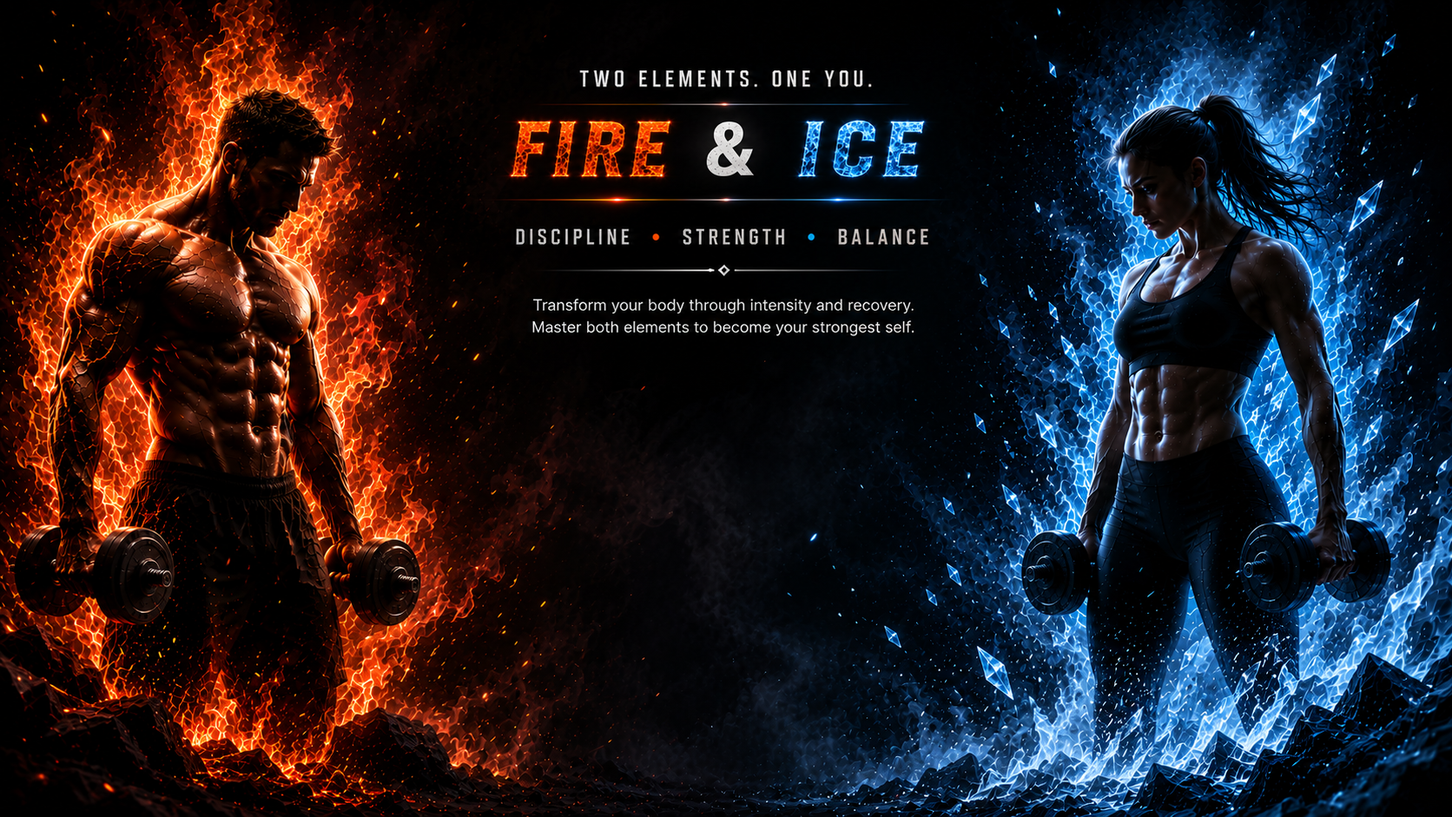
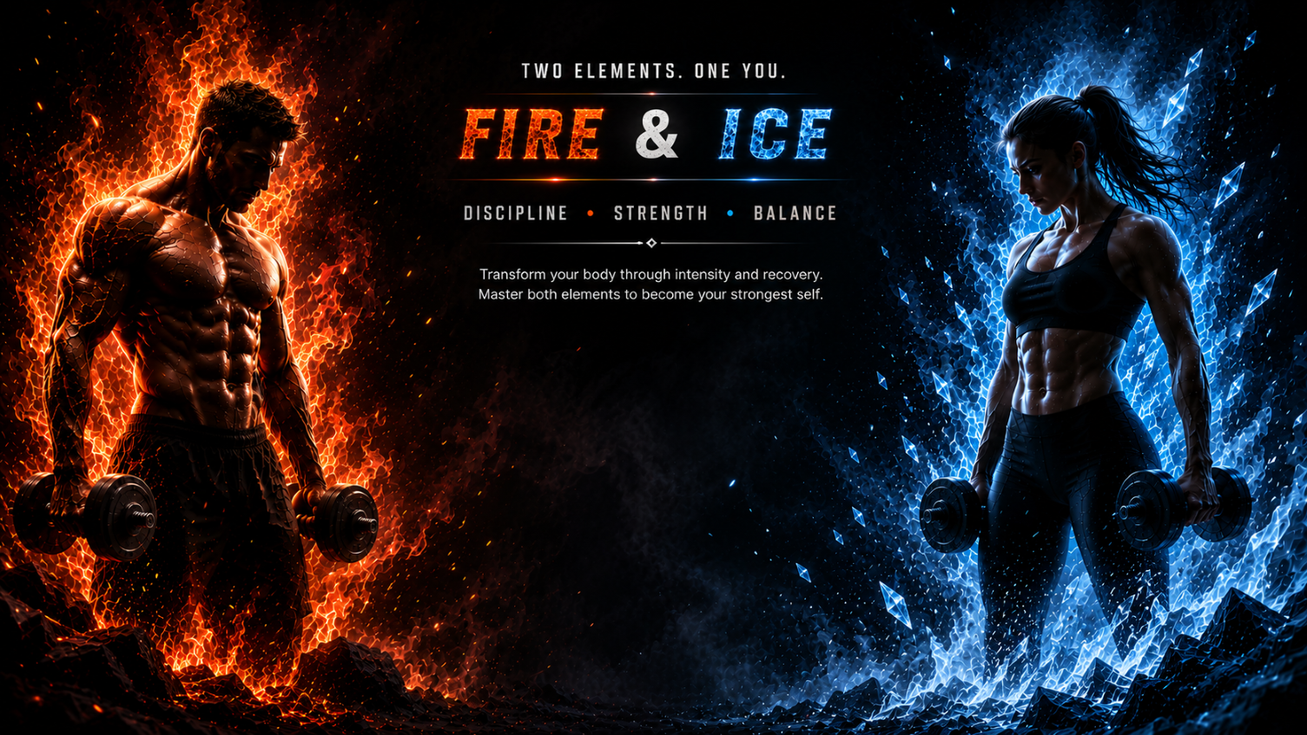
re-design layout

Changed region(s): [[0.3748, 0.3684, 0.5309, 0.3991], [0.5621, 0.3684, 0.5934, 0.3991], [0.0312, 0.4298, 0.0625, 0.4604]]

diff --git a/index.html b/index.html
@@ -28,20 +28,49 @@
                         <li><a href="contact.html">Contact</a></li>
                     </ul>
                 </div>
+                <div class="dark-mode">
+                    <button class="toggle">
+                        <svg xmlns="http://www.w3.org/2000/svg" xmlns:xlink="http://www.w3.org/1999/xlink"
+                            aria-hidden="true" role="img" width="44" viewBox="0 0 80 80"
+                            style="color: rgb(74, 85, 101); opacity: 1; transform: rotate(0deg);">
+                            <g fill="none">
+                                <path fill="#f2c94c" fill-rule="evenodd"
+                                    d="M23.001 24.273a14.78 14.78 0 0 1 10.928-2.928c1.257.165 1.234 1.933.161 2.608q-.453.285-.88.614a11.615 11.615 0 0 0 1.846 19.588a8.2 8.2 0 0 0-3.127 5.276a9.4 9.4 0 0 0-3.032 1.022A14.782 14.782 0 0 1 23 24.273"
+                                    clip-rule="evenodd"></path>
+                                <path fill="#f2c94c"
+                                    d="m33.93 21.345l.26-1.983zM23 24.273l-1.217-1.587zm11.09-.32l-1.066-1.692zm-.882.614l1.218 1.587zm-4.445 7.699l1.983.26zm2.301 8.586l1.587-1.217zm3.99 3.303l1.215 1.59a2 2 0 0 0-.315-3.376zm-2.95 4.426l-1.933-.51zm-.176.85l.305 1.976a2 2 0 0 0 1.672-1.672zm-3.032 1.022l-.42 1.955a2 2 0 0 0 1.372-.197zm-8.624-5.454l-1.587 1.217zM17.344 34.07l-1.983-.261zM34.19 19.36a16.78 16.78 0 0 0-12.406 3.325l2.435 3.173a12.78 12.78 0 0 1 9.45-2.532zm.966 6.285a3.74 3.74 0 0 0 1.726-3.251a3.23 3.23 0 0 0-.678-1.908a3.04 3.04 0 0 0-2.014-1.125l-.522 3.965a.96.96 0 0 1-.601-.36a.8.8 0 0 1-.183-.446a.27.27 0 0 1 .14-.26zm-.73.508a10 10 0 0 1 .73-.508l-2.131-3.385q-.532.334-1.033.72zm-3.679 6.373a9.62 9.62 0 0 1 3.68-6.373l-2.435-3.174a13.62 13.62 0 0 0-5.21 9.025zm1.905 7.108a9.62 9.62 0 0 1-1.905-7.108l-3.965-.522c-.472 3.58.498 7.2 2.697 10.065zm3.303 2.734a9.6 9.6 0 0 1-3.303-2.734l-3.174 2.435a13.6 13.6 0 0 0 4.678 3.871zM34.04 49.09a6.2 6.2 0 0 1 2.23-3.347l-2.428-3.178a10.2 10.2 0 0 0-3.67 5.505zm-.134.644q.05-.324.134-.644l-3.868-1.02q-.138.525-.22 1.056zM29.85 52.21a7.4 7.4 0 0 1 2.384-.804l-.61-3.953c-1.293.2-2.538.621-3.68 1.24zm-11.164-5.995a16.78 16.78 0 0 0 9.79 6.192l.84-3.91a12.78 12.78 0 0 1-7.457-4.717zM15.36 33.81a16.78 16.78 0 0 0 3.325 12.406l3.173-2.435a12.78 12.78 0 0 1-2.532-9.45zm6.423-11.124A16.78 16.78 0 0 0 15.36 33.81l3.966.522a12.78 12.78 0 0 1 4.892-8.473z">
+                                </path>
+                                <path fill="#9b51e0" fill-rule="evenodd"
+                                    d="M60.75 37.934a11.96 11.96 0 0 1 5.584 7.255a11.9 11.9 0 0 1 .254 5.004A9.34 9.34 0 0 1 72 58.66c0 2.477-.99 4.856-2.743 6.605a9.37 9.37 0 0 1-6.61 2.734H60.61l-.023.001H33.354a9.37 9.37 0 0 1-6.609-2.735A9.34 9.34 0 0 1 24 58.661c0-2.477.99-4.856 2.744-6.605a9.37 9.37 0 0 1 5.185-2.625q.066-.429.177-.85a8.2 8.2 0 0 1 3.826-5.01a8.24 8.24 0 0 1 7.831-.197l.613-1.058a12 12 0 0 1 7.286-5.577c3.067-.82 6.34-.387 9.089 1.195"
+                                    clip-rule="evenodd"></path>
+                                <path fill="#9b51e0"
+                                    d="m66.334 45.189l1.931-.52zm-5.583-7.255l.998-1.733zm5.837 12.259l-1.974-.32a2 2 0 0 0 1.131 2.133zm2.669 1.862l-1.413 1.416zm0 13.21l-1.413-1.417zm-6.61 2.734v2zm-2.038 0v-2q-.077 0-.154.006zM35.407 68l.057-2h-.057zm-2.054 0v2zm-6.609-2.735l1.413-1.416zm0-13.21l-1.412-1.415zm5.185-2.624l.305 1.976a2 2 0 0 0 1.672-1.672zm.177-.85l1.933.51zm3.826-5.01l-.998-1.733zm6.264-.8l.526-1.93zm1.568.603l-.902 1.785a2 2 0 0 0 2.632-.783zm.612-1.058l-1.73-1.002zm7.286-5.577l-.517-1.932zm16.604 7.93a13.96 13.96 0 0 0-6.517-8.468l-1.996 3.467a9.96 9.96 0 0 1 4.65 6.04zm.296 5.844a13.9 13.9 0 0 0-.296-5.843l-3.864 1.038a9.9 9.9 0 0 1 .212 4.164zm2.107.126a11.4 11.4 0 0 0-3.238-2.26l-1.686 3.627c.773.36 1.485.853 2.1 1.465zM74 58.659c0-3.009-1.203-5.897-3.332-8.02l-2.825 2.832A7.34 7.34 0 0 1 70 58.66zm-3.332 8.022A11.34 11.34 0 0 0 74 58.66h-4a7.34 7.34 0 0 1-2.157 5.188zm-8.021 3.318c3.007 0 5.894-1.197 8.02-3.318l-2.824-2.833A7.37 7.37 0 0 1 62.648 66zm-2.039 0h2.039v-4h-2.039zm-.154-3.994q.065-.005.132-.005v4q.089 0 .177-.007zm.132-.005h-25.17v4h25.17zm-25.171 0h.048l-.113 4h.065zm-2.063 4h2.054v-4h-2.054zm-8.02-3.318A11.37 11.37 0 0 0 33.352 70v-4a7.37 7.37 0 0 1-5.196-2.15zM22 58.66a11.33 11.33 0 0 0 3.331 8.02l2.825-2.832A7.34 7.34 0 0 1 26 58.661zm3.331-8.021A11.34 11.34 0 0 0 22 58.66h4c0-1.943.778-3.813 2.157-5.188zm6.291-3.186a11.38 11.38 0 0 0-6.29 3.186l2.824 2.832a7.37 7.37 0 0 1 4.077-2.065zm-1.451.617q-.139.525-.22 1.056l3.954.608q.05-.324.133-.644zm4.762-6.233a10.2 10.2 0 0 0-4.762 6.233l3.867 1.02a6.2 6.2 0 0 1 2.891-3.786zm7.788-.996a10.24 10.24 0 0 0-7.788.996l1.996 3.467a6.24 6.24 0 0 1 4.741-.604zm1.943.746a10.3 10.3 0 0 0-1.943-.746l-1.051 3.86q.621.17 1.19.457zm-2.02-.274l-.612 1.057l3.461 2.005l.613-1.058zm8.5-6.507a14 14 0 0 0-8.5 6.507l3.462 2.004a10 10 0 0 1 6.071-4.646zM61.748 36.2a14.02 14.02 0 0 0-10.604-1.394l1.033 3.864a10.02 10.02 0 0 1 7.575.997z">
+                                </path>
+                            </g>
+                        </svg>
+                    </button>
+                </div>
+                <div id="join-div">
+                    <a href="#" id="join-btn" class="btn btn-1">JOIN NOW</a>
+                </div>
             </div>
         </nav>
     </header>
 
     <section>
         <div id="banner-section">
-            
+
+            <div id="header-btn">
+                <div>
+                    <button class="btn btn-1" >START YOUR JOURNEY </button>
+                </div>
+                <div>
+                    <button class="btn" id="btn-2">EXPLORE MORE</button>
+                </div>
+            </div>
         </div>
-        <div id="main-div">
-            <div class="sub-div" id="div-1"></div>
-            <div class="sub-div" id="div-2"></div>
-            <div class="sub-div" id="div-3"></div>
-        </div>
+
     </section>
 </body>
 
-</html>
+</html>87 5

diff --git a/contact.html b/contact.html
@@ -28,6 +28,31 @@
                         <li class="active"><a href="contact.html">Contact</a></li>
                     </ul>
                 </div>
+                <div class="dark-mode">
+                    <button class="toggle">
+                        <svg xmlns="http://www.w3.org/2000/svg" xmlns:xlink="http://www.w3.org/1999/xlink"
+                            aria-hidden="true" role="img" width="44" viewBox="0 0 80 80"
+                            style="color: rgb(74, 85, 101); opacity: 1; transform: rotate(0deg);">
+                            <g fill="none">
+                                <path fill="#f2c94c" fill-rule="evenodd"
+                                    d="M23.001 24.273a14.78 14.78 0 0 1 10.928-2.928c1.257.165 1.234 1.933.161 2.608q-.453.285-.88.614a11.615 11.615 0 0 0 1.846 19.588a8.2 8.2 0 0 0-3.127 5.276a9.4 9.4 0 0 0-3.032 1.022A14.782 14.782 0 0 1 23 24.273"
+                                    clip-rule="evenodd"></path>
+                                <path fill="#f2c94c"
+                                    d="m33.93 21.345l.26-1.983zM23 24.273l-1.217-1.587zm11.09-.32l-1.066-1.692zm-.882.614l1.218 1.587zm-4.445 7.699l1.983.26zm2.301 8.586l1.587-1.217zm3.99 3.303l1.215 1.59a2 2 0 0 0-.315-3.376zm-2.95 4.426l-1.933-.51zm-.176.85l.305 1.976a2 2 0 0 0 1.672-1.672zm-3.032 1.022l-.42 1.955a2 2 0 0 0 1.372-.197zm-8.624-5.454l-1.587 1.217zM17.344 34.07l-1.983-.261zM34.19 19.36a16.78 16.78 0 0 0-12.406 3.325l2.435 3.173a12.78 12.78 0 0 1 9.45-2.532zm.966 6.285a3.74 3.74 0 0 0 1.726-3.251a3.23 3.23 0 0 0-.678-1.908a3.04 3.04 0 0 0-2.014-1.125l-.522 3.965a.96.96 0 0 1-.601-.36a.8.8 0 0 1-.183-.446a.27.27 0 0 1 .14-.26zm-.73.508a10 10 0 0 1 .73-.508l-2.131-3.385q-.532.334-1.033.72zm-3.679 6.373a9.62 9.62 0 0 1 3.68-6.373l-2.435-3.174a13.62 13.62 0 0 0-5.21 9.025zm1.905 7.108a9.62 9.62 0 0 1-1.905-7.108l-3.965-.522c-.472 3.58.498 7.2 2.697 10.065zm3.303 2.734a9.6 9.6 0 0 1-3.303-2.734l-3.174 2.435a13.6 13.6 0 0 0 4.678 3.871zM34.04 49.09a6.2 6.2 0 0 1 2.23-3.347l-2.428-3.178a10.2 10.2 0 0 0-3.67 5.505zm-.134.644q.05-.324.134-.644l-3.868-1.02q-.138.525-.22 1.056zM29.85 52.21a7.4 7.4 0 0 1 2.384-.804l-.61-3.953c-1.293.2-2.538.621-3.68 1.24zm-11.164-5.995a16.78 16.78 0 0 0 9.79 6.192l.84-3.91a12.78 12.78 0 0 1-7.457-4.717zM15.36 33.81a16.78 16.78 0 0 0 3.325 12.406l3.173-2.435a12.78 12.78 0 0 1-2.532-9.45zm6.423-11.124A16.78 16.78 0 0 0 15.36 33.81l3.966.522a12.78 12.78 0 0 1 4.892-8.473z">
+                                </path>
+                                <path fill="#9b51e0" fill-rule="evenodd"
+                                    d="M60.75 37.934a11.96 11.96 0 0 1 5.584 7.255a11.9 11.9 0 0 1 .254 5.004A9.34 9.34 0 0 1 72 58.66c0 2.477-.99 4.856-2.743 6.605a9.37 9.37 0 0 1-6.61 2.734H60.61l-.023.001H33.354a9.37 9.37 0 0 1-6.609-2.735A9.34 9.34 0 0 1 24 58.661c0-2.477.99-4.856 2.744-6.605a9.37 9.37 0 0 1 5.185-2.625q.066-.429.177-.85a8.2 8.2 0 0 1 3.826-5.01a8.24 8.24 0 0 1 7.831-.197l.613-1.058a12 12 0 0 1 7.286-5.577c3.067-.82 6.34-.387 9.089 1.195"
+                                    clip-rule="evenodd"></path>
+                                <path fill="#9b51e0"
+                                    d="m66.334 45.189l1.931-.52zm-5.583-7.255l.998-1.733zm5.837 12.259l-1.974-.32a2 2 0 0 0 1.131 2.133zm2.669 1.862l-1.413 1.416zm0 13.21l-1.413-1.417zm-6.61 2.734v2zm-2.038 0v-2q-.077 0-.154.006zM35.407 68l.057-2h-.057zm-2.054 0v2zm-6.609-2.735l1.413-1.416zm0-13.21l-1.412-1.415zm5.185-2.624l.305 1.976a2 2 0 0 0 1.672-1.672zm.177-.85l1.933.51zm3.826-5.01l-.998-1.733zm6.264-.8l.526-1.93zm1.568.603l-.902 1.785a2 2 0 0 0 2.632-.783zm.612-1.058l-1.73-1.002zm7.286-5.577l-.517-1.932zm16.604 7.93a13.96 13.96 0 0 0-6.517-8.468l-1.996 3.467a9.96 9.96 0 0 1 4.65 6.04zm.296 5.844a13.9 13.9 0 0 0-.296-5.843l-3.864 1.038a9.9 9.9 0 0 1 .212 4.164zm2.107.126a11.4 11.4 0 0 0-3.238-2.26l-1.686 3.627c.773.36 1.485.853 2.1 1.465zM74 58.659c0-3.009-1.203-5.897-3.332-8.02l-2.825 2.832A7.34 7.34 0 0 1 70 58.66zm-3.332 8.022A11.34 11.34 0 0 0 74 58.66h-4a7.34 7.34 0 0 1-2.157 5.188zm-8.021 3.318c3.007 0 5.894-1.197 8.02-3.318l-2.824-2.833A7.37 7.37 0 0 1 62.648 66zm-2.039 0h2.039v-4h-2.039zm-.154-3.994q.065-.005.132-.005v4q.089 0 .177-.007zm.132-.005h-25.17v4h25.17zm-25.171 0h.048l-.113 4h.065zm-2.063 4h2.054v-4h-2.054zm-8.02-3.318A11.37 11.37 0 0 0 33.352 70v-4a7.37 7.37 0 0 1-5.196-2.15zM22 58.66a11.33 11.33 0 0 0 3.331 8.02l2.825-2.832A7.34 7.34 0 0 1 26 58.661zm3.331-8.021A11.34 11.34 0 0 0 22 58.66h4c0-1.943.778-3.813 2.157-5.188zm6.291-3.186a11.38 11.38 0 0 0-6.29 3.186l2.824 2.832a7.37 7.37 0 0 1 4.077-2.065zm-1.451.617q-.139.525-.22 1.056l3.954.608q.05-.324.133-.644zm4.762-6.233a10.2 10.2 0 0 0-4.762 6.233l3.867 1.02a6.2 6.2 0 0 1 2.891-3.786zm7.788-.996a10.24 10.24 0 0 0-7.788.996l1.996 3.467a6.24 6.24 0 0 1 4.741-.604zm1.943.746a10.3 10.3 0 0 0-1.943-.746l-1.051 3.86q.621.17 1.19.457zm-2.02-.274l-.612 1.057l3.461 2.005l.613-1.058zm8.5-6.507a14 14 0 0 0-8.5 6.507l3.462 2.004a10 10 0 0 1 6.071-4.646zM61.748 36.2a14.02 14.02 0 0 0-10.604-1.394l1.033 3.864a10.02 10.02 0 0 1 7.575.997z">
+                                </path>
+                            </g>
+                        </svg>
+                    </button>
+                </div>
+                <div id="join-div">
+                    <a href="#" id="join-btn" class="btn">JOIN NOW</a>
+                </div>
             </div>
         </nav>
     </header>

diff --git a/about.html b/about.html
@@ -28,6 +28,31 @@
                         <li><a href="contact.html">Contact</a></li>
                     </ul>
                 </div>
+                <div class="dark-mode">
+                    <button class="toggle">
+                        <svg xmlns="http://www.w3.org/2000/svg" xmlns:xlink="http://www.w3.org/1999/xlink"
+                            aria-hidden="true" role="img" width="44" viewBox="0 0 80 80"
+                            style="color: rgb(74, 85, 101); opacity: 1; transform: rotate(0deg);">
+                            <g fill="none">
+                                <path fill="#f2c94c" fill-rule="evenodd"
+                                    d="M23.001 24.273a14.78 14.78 0 0 1 10.928-2.928c1.257.165 1.234 1.933.161 2.608q-.453.285-.88.614a11.615 11.615 0 0 0 1.846 19.588a8.2 8.2 0 0 0-3.127 5.276a9.4 9.4 0 0 0-3.032 1.022A14.782 14.782 0 0 1 23 24.273"
+                                    clip-rule="evenodd"></path>
+                                <path fill="#f2c94c"
+                                    d="m33.93 21.345l.26-1.983zM23 24.273l-1.217-1.587zm11.09-.32l-1.066-1.692zm-.882.614l1.218 1.587zm-4.445 7.699l1.983.26zm2.301 8.586l1.587-1.217zm3.99 3.303l1.215 1.59a2 2 0 0 0-.315-3.376zm-2.95 4.426l-1.933-.51zm-.176.85l.305 1.976a2 2 0 0 0 1.672-1.672zm-3.032 1.022l-.42 1.955a2 2 0 0 0 1.372-.197zm-8.624-5.454l-1.587 1.217zM17.344 34.07l-1.983-.261zM34.19 19.36a16.78 16.78 0 0 0-12.406 3.325l2.435 3.173a12.78 12.78 0 0 1 9.45-2.532zm.966 6.285a3.74 3.74 0 0 0 1.726-3.251a3.23 3.23 0 0 0-.678-1.908a3.04 3.04 0 0 0-2.014-1.125l-.522 3.965a.96.96 0 0 1-.601-.36a.8.8 0 0 1-.183-.446a.27.27 0 0 1 .14-.26zm-.73.508a10 10 0 0 1 .73-.508l-2.131-3.385q-.532.334-1.033.72zm-3.679 6.373a9.62 9.62 0 0 1 3.68-6.373l-2.435-3.174a13.62 13.62 0 0 0-5.21 9.025zm1.905 7.108a9.62 9.62 0 0 1-1.905-7.108l-3.965-.522c-.472 3.58.498 7.2 2.697 10.065zm3.303 2.734a9.6 9.6 0 0 1-3.303-2.734l-3.174 2.435a13.6 13.6 0 0 0 4.678 3.871zM34.04 49.09a6.2 6.2 0 0 1 2.23-3.347l-2.428-3.178a10.2 10.2 0 0 0-3.67 5.505zm-.134.644q.05-.324.134-.644l-3.868-1.02q-.138.525-.22 1.056zM29.85 52.21a7.4 7.4 0 0 1 2.384-.804l-.61-3.953c-1.293.2-2.538.621-3.68 1.24zm-11.164-5.995a16.78 16.78 0 0 0 9.79 6.192l.84-3.91a12.78 12.78 0 0 1-7.457-4.717zM15.36 33.81a16.78 16.78 0 0 0 3.325 12.406l3.173-2.435a12.78 12.78 0 0 1-2.532-9.45zm6.423-11.124A16.78 16.78 0 0 0 15.36 33.81l3.966.522a12.78 12.78 0 0 1 4.892-8.473z">
+                                </path>
+                                <path fill="#9b51e0" fill-rule="evenodd"
+                                    d="M60.75 37.934a11.96 11.96 0 0 1 5.584 7.255a11.9 11.9 0 0 1 .254 5.004A9.34 9.34 0 0 1 72 58.66c0 2.477-.99 4.856-2.743 6.605a9.37 9.37 0 0 1-6.61 2.734H60.61l-.023.001H33.354a9.37 9.37 0 0 1-6.609-2.735A9.34 9.34 0 0 1 24 58.661c0-2.477.99-4.856 2.744-6.605a9.37 9.37 0 0 1 5.185-2.625q.066-.429.177-.85a8.2 8.2 0 0 1 3.826-5.01a8.24 8.24 0 0 1 7.831-.197l.613-1.058a12 12 0 0 1 7.286-5.577c3.067-.82 6.34-.387 9.089 1.195"
+                                    clip-rule="evenodd"></path>
+                                <path fill="#9b51e0"
+                                    d="m66.334 45.189l1.931-.52zm-5.583-7.255l.998-1.733zm5.837 12.259l-1.974-.32a2 2 0 0 0 1.131 2.133zm2.669 1.862l-1.413 1.416zm0 13.21l-1.413-1.417zm-6.61 2.734v2zm-2.038 0v-2q-.077 0-.154.006zM35.407 68l.057-2h-.057zm-2.054 0v2zm-6.609-2.735l1.413-1.416zm0-13.21l-1.412-1.415zm5.185-2.624l.305 1.976a2 2 0 0 0 1.672-1.672zm.177-.85l1.933.51zm3.826-5.01l-.998-1.733zm6.264-.8l.526-1.93zm1.568.603l-.902 1.785a2 2 0 0 0 2.632-.783zm.612-1.058l-1.73-1.002zm7.286-5.577l-.517-1.932zm16.604 7.93a13.96 13.96 0 0 0-6.517-8.468l-1.996 3.467a9.96 9.96 0 0 1 4.65 6.04zm.296 5.844a13.9 13.9 0 0 0-.296-5.843l-3.864 1.038a9.9 9.9 0 0 1 .212 4.164zm2.107.126a11.4 11.4 0 0 0-3.238-2.26l-1.686 3.627c.773.36 1.485.853 2.1 1.465zM74 58.659c0-3.009-1.203-5.897-3.332-8.02l-2.825 2.832A7.34 7.34 0 0 1 70 58.66zm-3.332 8.022A11.34 11.34 0 0 0 74 58.66h-4a7.34 7.34 0 0 1-2.157 5.188zm-8.021 3.318c3.007 0 5.894-1.197 8.02-3.318l-2.824-2.833A7.37 7.37 0 0 1 62.648 66zm-2.039 0h2.039v-4h-2.039zm-.154-3.994q.065-.005.132-.005v4q.089 0 .177-.007zm.132-.005h-25.17v4h25.17zm-25.171 0h.048l-.113 4h.065zm-2.063 4h2.054v-4h-2.054zm-8.02-3.318A11.37 11.37 0 0 0 33.352 70v-4a7.37 7.37 0 0 1-5.196-2.15zM22 58.66a11.33 11.33 0 0 0 3.331 8.02l2.825-2.832A7.34 7.34 0 0 1 26 58.661zm3.331-8.021A11.34 11.34 0 0 0 22 58.66h4c0-1.943.778-3.813 2.157-5.188zm6.291-3.186a11.38 11.38 0 0 0-6.29 3.186l2.824 2.832a7.37 7.37 0 0 1 4.077-2.065zm-1.451.617q-.139.525-.22 1.056l3.954.608q.05-.324.133-.644zm4.762-6.233a10.2 10.2 0 0 0-4.762 6.233l3.867 1.02a6.2 6.2 0 0 1 2.891-3.786zm7.788-.996a10.24 10.24 0 0 0-7.788.996l1.996 3.467a6.24 6.24 0 0 1 4.741-.604zm1.943.746a10.3 10.3 0 0 0-1.943-.746l-1.051 3.86q.621.17 1.19.457zm-2.02-.274l-.612 1.057l3.461 2.005l.613-1.058zm8.5-6.507a14 14 0 0 0-8.5 6.507l3.462 2.004a10 10 0 0 1 6.071-4.646zM61.748 36.2a14.02 14.02 0 0 0-10.604-1.394l1.033 3.864a10.02 10.02 0 0 1 7.575.997z">
+                                </path>
+                            </g>
+                        </svg>
+                    </button>
+                </div>
+                <div id="join-div">
+                    <a href="#" id="join-btn" class="btn">JOIN NOW</a>
+                </div>
             </div>
         </nav>
     </header>

diff --git a/feature.html b/feature.html
@@ -28,6 +28,31 @@
                         <li><a href="contact.html">Contact</a></li>
                     </ul>
                 </div>
+                <div class="dark-mode">
+                    <button class="toggle">
+                        <svg xmlns="http://www.w3.org/2000/svg" xmlns:xlink="http://www.w3.org/1999/xlink"
+                            aria-hidden="true" role="img" width="44" viewBox="0 0 80 80"
+                            style="color: rgb(74, 85, 101); opacity: 1; transform: rotate(0deg);">
+                            <g fill="none">
+                                <path fill="#f2c94c" fill-rule="evenodd"
+                                    d="M23.001 24.273a14.78 14.78 0 0 1 10.928-2.928c1.257.165 1.234 1.933.161 2.608q-.453.285-.88.614a11.615 11.615 0 0 0 1.846 19.588a8.2 8.2 0 0 0-3.127 5.276a9.4 9.4 0 0 0-3.032 1.022A14.782 14.782 0 0 1 23 24.273"
+                                    clip-rule="evenodd"></path>
+                                <path fill="#f2c94c"
+                                    d="m33.93 21.345l.26-1.983zM23 24.273l-1.217-1.587zm11.09-.32l-1.066-1.692zm-.882.614l1.218 1.587zm-4.445 7.699l1.983.26zm2.301 8.586l1.587-1.217zm3.99 3.303l1.215 1.59a2 2 0 0 0-.315-3.376zm-2.95 4.426l-1.933-.51zm-.176.85l.305 1.976a2 2 0 0 0 1.672-1.672zm-3.032 1.022l-.42 1.955a2 2 0 0 0 1.372-.197zm-8.624-5.454l-1.587 1.217zM17.344 34.07l-1.983-.261zM34.19 19.36a16.78 16.78 0 0 0-12.406 3.325l2.435 3.173a12.78 12.78 0 0 1 9.45-2.532zm.966 6.285a3.74 3.74 0 0 0 1.726-3.251a3.23 3.23 0 0 0-.678-1.908a3.04 3.04 0 0 0-2.014-1.125l-.522 3.965a.96.96 0 0 1-.601-.36a.8.8 0 0 1-.183-.446a.27.27 0 0 1 .14-.26zm-.73.508a10 10 0 0 1 .73-.508l-2.131-3.385q-.532.334-1.033.72zm-3.679 6.373a9.62 9.62 0 0 1 3.68-6.373l-2.435-3.174a13.62 13.62 0 0 0-5.21 9.025zm1.905 7.108a9.62 9.62 0 0 1-1.905-7.108l-3.965-.522c-.472 3.58.498 7.2 2.697 10.065zm3.303 2.734a9.6 9.6 0 0 1-3.303-2.734l-3.174 2.435a13.6 13.6 0 0 0 4.678 3.871zM34.04 49.09a6.2 6.2 0 0 1 2.23-3.347l-2.428-3.178a10.2 10.2 0 0 0-3.67 5.505zm-.134.644q.05-.324.134-.644l-3.868-1.02q-.138.525-.22 1.056zM29.85 52.21a7.4 7.4 0 0 1 2.384-.804l-.61-3.953c-1.293.2-2.538.621-3.68 1.24zm-11.164-5.995a16.78 16.78 0 0 0 9.79 6.192l.84-3.91a12.78 12.78 0 0 1-7.457-4.717zM15.36 33.81a16.78 16.78 0 0 0 3.325 12.406l3.173-2.435a12.78 12.78 0 0 1-2.532-9.45zm6.423-11.124A16.78 16.78 0 0 0 15.36 33.81l3.966.522a12.78 12.78 0 0 1 4.892-8.473z">
+                                </path>
+                                <path fill="#9b51e0" fill-rule="evenodd"
+                                    d="M60.75 37.934a11.96 11.96 0 0 1 5.584 7.255a11.9 11.9 0 0 1 .254 5.004A9.34 9.34 0 0 1 72 58.66c0 2.477-.99 4.856-2.743 6.605a9.37 9.37 0 0 1-6.61 2.734H60.61l-.023.001H33.354a9.37 9.37 0 0 1-6.609-2.735A9.34 9.34 0 0 1 24 58.661c0-2.477.99-4.856 2.744-6.605a9.37 9.37 0 0 1 5.185-2.625q.066-.429.177-.85a8.2 8.2 0 0 1 3.826-5.01a8.24 8.24 0 0 1 7.831-.197l.613-1.058a12 12 0 0 1 7.286-5.577c3.067-.82 6.34-.387 9.089 1.195"
+                                    clip-rule="evenodd"></path>
+                                <path fill="#9b51e0"
+                                    d="m66.334 45.189l1.931-.52zm-5.583-7.255l.998-1.733zm5.837 12.259l-1.974-.32a2 2 0 0 0 1.131 2.133zm2.669 1.862l-1.413 1.416zm0 13.21l-1.413-1.417zm-6.61 2.734v2zm-2.038 0v-2q-.077 0-.154.006zM35.407 68l.057-2h-.057zm-2.054 0v2zm-6.609-2.735l1.413-1.416zm0-13.21l-1.412-1.415zm5.185-2.624l.305 1.976a2 2 0 0 0 1.672-1.672zm.177-.85l1.933.51zm3.826-5.01l-.998-1.733zm6.264-.8l.526-1.93zm1.568.603l-.902 1.785a2 2 0 0 0 2.632-.783zm.612-1.058l-1.73-1.002zm7.286-5.577l-.517-1.932zm16.604 7.93a13.96 13.96 0 0 0-6.517-8.468l-1.996 3.467a9.96 9.96 0 0 1 4.65 6.04zm.296 5.844a13.9 13.9 0 0 0-.296-5.843l-3.864 1.038a9.9 9.9 0 0 1 .212 4.164zm2.107.126a11.4 11.4 0 0 0-3.238-2.26l-1.686 3.627c.773.36 1.485.853 2.1 1.465zM74 58.659c0-3.009-1.203-5.897-3.332-8.02l-2.825 2.832A7.34 7.34 0 0 1 70 58.66zm-3.332 8.022A11.34 11.34 0 0 0 74 58.66h-4a7.34 7.34 0 0 1-2.157 5.188zm-8.021 3.318c3.007 0 5.894-1.197 8.02-3.318l-2.824-2.833A7.37 7.37 0 0 1 62.648 66zm-2.039 0h2.039v-4h-2.039zm-.154-3.994q.065-.005.132-.005v4q.089 0 .177-.007zm.132-.005h-25.17v4h25.17zm-25.171 0h.048l-.113 4h.065zm-2.063 4h2.054v-4h-2.054zm-8.02-3.318A11.37 11.37 0 0 0 33.352 70v-4a7.37 7.37 0 0 1-5.196-2.15zM22 58.66a11.33 11.33 0 0 0 3.331 8.02l2.825-2.832A7.34 7.34 0 0 1 26 58.661zm3.331-8.021A11.34 11.34 0 0 0 22 58.66h4c0-1.943.778-3.813 2.157-5.188zm6.291-3.186a11.38 11.38 0 0 0-6.29 3.186l2.824 2.832a7.37 7.37 0 0 1 4.077-2.065zm-1.451.617q-.139.525-.22 1.056l3.954.608q.05-.324.133-.644zm4.762-6.233a10.2 10.2 0 0 0-4.762 6.233l3.867 1.02a6.2 6.2 0 0 1 2.891-3.786zm7.788-.996a10.24 10.24 0 0 0-7.788.996l1.996 3.467a6.24 6.24 0 0 1 4.741-.604zm1.943.746a10.3 10.3 0 0 0-1.943-.746l-1.051 3.86q.621.17 1.19.457zm-2.02-.274l-.612 1.057l3.461 2.005l.613-1.058zm8.5-6.507a14 14 0 0 0-8.5 6.507l3.462 2.004a10 10 0 0 1 6.071-4.646zM61.748 36.2a14.02 14.02 0 0 0-10.604-1.394l1.033 3.864a10.02 10.02 0 0 1 7.575.997z">
+                                </path>
+                            </g>
+                        </svg>
+                    </button>
+                </div>
+                <div id="join-div">
+                    <a href="#" id="join-btn" class="btn">JOIN NOW</a>
+                </div>
             </div>
         </nav>
     </header>

diff --git a/plans.html b/plans.html
@@ -28,6 +28,31 @@
                         <li><a href="contact.html">Contact</a></li>
                     </ul>
                 </div>
+                <div class="dark-mode">
+                    <button class="toggle">
+                        <svg xmlns="http://www.w3.org/2000/svg" xmlns:xlink="http://www.w3.org/1999/xlink"
+                            aria-hidden="true" role="img" width="44" viewBox="0 0 80 80"
+                            style="color: rgb(74, 85, 101); opacity: 1; transform: rotate(0deg);">
+                            <g fill="none">
+                                <path fill="#f2c94c" fill-rule="evenodd"
+                                    d="M23.001 24.273a14.78 14.78 0 0 1 10.928-2.928c1.257.165 1.234 1.933.161 2.608q-.453.285-.88.614a11.615 11.615 0 0 0 1.846 19.588a8.2 8.2 0 0 0-3.127 5.276a9.4 9.4 0 0 0-3.032 1.022A14.782 14.782 0 0 1 23 24.273"
+                                    clip-rule="evenodd"></path>
+                                <path fill="#f2c94c"
+                                    d="m33.93 21.345l.26-1.983zM23 24.273l-1.217-1.587zm11.09-.32l-1.066-1.692zm-.882.614l1.218 1.587zm-4.445 7.699l1.983.26zm2.301 8.586l1.587-1.217zm3.99 3.303l1.215 1.59a2 2 0 0 0-.315-3.376zm-2.95 4.426l-1.933-.51zm-.176.85l.305 1.976a2 2 0 0 0 1.672-1.672zm-3.032 1.022l-.42 1.955a2 2 0 0 0 1.372-.197zm-8.624-5.454l-1.587 1.217zM17.344 34.07l-1.983-.261zM34.19 19.36a16.78 16.78 0 0 0-12.406 3.325l2.435 3.173a12.78 12.78 0 0 1 9.45-2.532zm.966 6.285a3.74 3.74 0 0 0 1.726-3.251a3.23 3.23 0 0 0-.678-1.908a3.04 3.04 0 0 0-2.014-1.125l-.522 3.965a.96.96 0 0 1-.601-.36a.8.8 0 0 1-.183-.446a.27.27 0 0 1 .14-.26zm-.73.508a10 10 0 0 1 .73-.508l-2.131-3.385q-.532.334-1.033.72zm-3.679 6.373a9.62 9.62 0 0 1 3.68-6.373l-2.435-3.174a13.62 13.62 0 0 0-5.21 9.025zm1.905 7.108a9.62 9.62 0 0 1-1.905-7.108l-3.965-.522c-.472 3.58.498 7.2 2.697 10.065zm3.303 2.734a9.6 9.6 0 0 1-3.303-2.734l-3.174 2.435a13.6 13.6 0 0 0 4.678 3.871zM34.04 49.09a6.2 6.2 0 0 1 2.23-3.347l-2.428-3.178a10.2 10.2 0 0 0-3.67 5.505zm-.134.644q.05-.324.134-.644l-3.868-1.02q-.138.525-.22 1.056zM29.85 52.21a7.4 7.4 0 0 1 2.384-.804l-.61-3.953c-1.293.2-2.538.621-3.68 1.24zm-11.164-5.995a16.78 16.78 0 0 0 9.79 6.192l.84-3.91a12.78 12.78 0 0 1-7.457-4.717zM15.36 33.81a16.78 16.78 0 0 0 3.325 12.406l3.173-2.435a12.78 12.78 0 0 1-2.532-9.45zm6.423-11.124A16.78 16.78 0 0 0 15.36 33.81l3.966.522a12.78 12.78 0 0 1 4.892-8.473z">
+                                </path>
+                                <path fill="#9b51e0" fill-rule="evenodd"
+                                    d="M60.75 37.934a11.96 11.96 0 0 1 5.584 7.255a11.9 11.9 0 0 1 .254 5.004A9.34 9.34 0 0 1 72 58.66c0 2.477-.99 4.856-2.743 6.605a9.37 9.37 0 0 1-6.61 2.734H60.61l-.023.001H33.354a9.37 9.37 0 0 1-6.609-2.735A9.34 9.34 0 0 1 24 58.661c0-2.477.99-4.856 2.744-6.605a9.37 9.37 0 0 1 5.185-2.625q.066-.429.177-.85a8.2 8.2 0 0 1 3.826-5.01a8.24 8.24 0 0 1 7.831-.197l.613-1.058a12 12 0 0 1 7.286-5.577c3.067-.82 6.34-.387 9.089 1.195"
+                                    clip-rule="evenodd"></path>
+                                <path fill="#9b51e0"
+                                    d="m66.334 45.189l1.931-.52zm-5.583-7.255l.998-1.733zm5.837 12.259l-1.974-.32a2 2 0 0 0 1.131 2.133zm2.669 1.862l-1.413 1.416zm0 13.21l-1.413-1.417zm-6.61 2.734v2zm-2.038 0v-2q-.077 0-.154.006zM35.407 68l.057-2h-.057zm-2.054 0v2zm-6.609-2.735l1.413-1.416zm0-13.21l-1.412-1.415zm5.185-2.624l.305 1.976a2 2 0 0 0 1.672-1.672zm.177-.85l1.933.51zm3.826-5.01l-.998-1.733zm6.264-.8l.526-1.93zm1.568.603l-.902 1.785a2 2 0 0 0 2.632-.783zm.612-1.058l-1.73-1.002zm7.286-5.577l-.517-1.932zm16.604 7.93a13.96 13.96 0 0 0-6.517-8.468l-1.996 3.467a9.96 9.96 0 0 1 4.65 6.04zm.296 5.844a13.9 13.9 0 0 0-.296-5.843l-3.864 1.038a9.9 9.9 0 0 1 .212 4.164zm2.107.126a11.4 11.4 0 0 0-3.238-2.26l-1.686 3.627c.773.36 1.485.853 2.1 1.465zM74 58.659c0-3.009-1.203-5.897-3.332-8.02l-2.825 2.832A7.34 7.34 0 0 1 70 58.66zm-3.332 8.022A11.34 11.34 0 0 0 74 58.66h-4a7.34 7.34 0 0 1-2.157 5.188zm-8.021 3.318c3.007 0 5.894-1.197 8.02-3.318l-2.824-2.833A7.37 7.37 0 0 1 62.648 66zm-2.039 0h2.039v-4h-2.039zm-.154-3.994q.065-.005.132-.005v4q.089 0 .177-.007zm.132-.005h-25.17v4h25.17zm-25.171 0h.048l-.113 4h.065zm-2.063 4h2.054v-4h-2.054zm-8.02-3.318A11.37 11.37 0 0 0 33.352 70v-4a7.37 7.37 0 0 1-5.196-2.15zM22 58.66a11.33 11.33 0 0 0 3.331 8.02l2.825-2.832A7.34 7.34 0 0 1 26 58.661zm3.331-8.021A11.34 11.34 0 0 0 22 58.66h4c0-1.943.778-3.813 2.157-5.188zm6.291-3.186a11.38 11.38 0 0 0-6.29 3.186l2.824 2.832a7.37 7.37 0 0 1 4.077-2.065zm-1.451.617q-.139.525-.22 1.056l3.954.608q.05-.324.133-.644zm4.762-6.233a10.2 10.2 0 0 0-4.762 6.233l3.867 1.02a6.2 6.2 0 0 1 2.891-3.786zm7.788-.996a10.24 10.24 0 0 0-7.788.996l1.996 3.467a6.24 6.24 0 0 1 4.741-.604zm1.943.746a10.3 10.3 0 0 0-1.943-.746l-1.051 3.86q.621.17 1.19.457zm-2.02-.274l-.612 1.057l3.461 2.005l.613-1.058zm8.5-6.507a14 14 0 0 0-8.5 6.507l3.462 2.004a10 10 0 0 1 6.071-4.646zM61.748 36.2a14.02 14.02 0 0 0-10.604-1.394l1.033 3.864a10.02 10.02 0 0 1 7.575.997z">
+                                </path>
+                            </g>
+                        </svg>
+                    </button>
+                </div>
+                <div id="join-div">
+                    <a href="#" id="join-btn" class="btn">JOIN NOW</a>
+                </div>
             </div>
         </nav>
     </header>

diff --git a/workout.html b/workout.html
@@ -28,6 +28,31 @@
                         <li><a href="contact.html">Contact</a></li>
                     </ul>
                 </div>
+                <div class="dark-mode">
+                    <button class="toggle">
+                        <svg xmlns="http://www.w3.org/2000/svg" xmlns:xlink="http://www.w3.org/1999/xlink"
+                            aria-hidden="true" role="img" width="44" viewBox="0 0 80 80"
+                            style="color: rgb(74, 85, 101); opacity: 1; transform: rotate(0deg);">
+                            <g fill="none">
+                                <path fill="#f2c94c" fill-rule="evenodd"
+                                    d="M23.001 24.273a14.78 14.78 0 0 1 10.928-2.928c1.257.165 1.234 1.933.161 2.608q-.453.285-.88.614a11.615 11.615 0 0 0 1.846 19.588a8.2 8.2 0 0 0-3.127 5.276a9.4 9.4 0 0 0-3.032 1.022A14.782 14.782 0 0 1 23 24.273"
+                                    clip-rule="evenodd"></path>
+                                <path fill="#f2c94c"
+                                    d="m33.93 21.345l.26-1.983zM23 24.273l-1.217-1.587zm11.09-.32l-1.066-1.692zm-.882.614l1.218 1.587zm-4.445 7.699l1.983.26zm2.301 8.586l1.587-1.217zm3.99 3.303l1.215 1.59a2 2 0 0 0-.315-3.376zm-2.95 4.426l-1.933-.51zm-.176.85l.305 1.976a2 2 0 0 0 1.672-1.672zm-3.032 1.022l-.42 1.955a2 2 0 0 0 1.372-.197zm-8.624-5.454l-1.587 1.217zM17.344 34.07l-1.983-.261zM34.19 19.36a16.78 16.78 0 0 0-12.406 3.325l2.435 3.173a12.78 12.78 0 0 1 9.45-2.532zm.966 6.285a3.74 3.74 0 0 0 1.726-3.251a3.23 3.23 0 0 0-.678-1.908a3.04 3.04 0 0 0-2.014-1.125l-.522 3.965a.96.96 0 0 1-.601-.36a.8.8 0 0 1-.183-.446a.27.27 0 0 1 .14-.26zm-.73.508a10 10 0 0 1 .73-.508l-2.131-3.385q-.532.334-1.033.72zm-3.679 6.373a9.62 9.62 0 0 1 3.68-6.373l-2.435-3.174a13.62 13.62 0 0 0-5.21 9.025zm1.905 7.108a9.62 9.62 0 0 1-1.905-7.108l-3.965-.522c-.472 3.58.498 7.2 2.697 10.065zm3.303 2.734a9.6 9.6 0 0 1-3.303-2.734l-3.174 2.435a13.6 13.6 0 0 0 4.678 3.871zM34.04 49.09a6.2 6.2 0 0 1 2.23-3.347l-2.428-3.178a10.2 10.2 0 0 0-3.67 5.505zm-.134.644q.05-.324.134-.644l-3.868-1.02q-.138.525-.22 1.056zM29.85 52.21a7.4 7.4 0 0 1 2.384-.804l-.61-3.953c-1.293.2-2.538.621-3.68 1.24zm-11.164-5.995a16.78 16.78 0 0 0 9.79 6.192l.84-3.91a12.78 12.78 0 0 1-7.457-4.717zM15.36 33.81a16.78 16.78 0 0 0 3.325 12.406l3.173-2.435a12.78 12.78 0 0 1-2.532-9.45zm6.423-11.124A16.78 16.78 0 0 0 15.36 33.81l3.966.522a12.78 12.78 0 0 1 4.892-8.473z">
+                                </path>
+                                <path fill="#9b51e0" fill-rule="evenodd"
+                                    d="M60.75 37.934a11.96 11.96 0 0 1 5.584 7.255a11.9 11.9 0 0 1 .254 5.004A9.34 9.34 0 0 1 72 58.66c0 2.477-.99 4.856-2.743 6.605a9.37 9.37 0 0 1-6.61 2.734H60.61l-.023.001H33.354a9.37 9.37 0 0 1-6.609-2.735A9.34 9.34 0 0 1 24 58.661c0-2.477.99-4.856 2.744-6.605a9.37 9.37 0 0 1 5.185-2.625q.066-.429.177-.85a8.2 8.2 0 0 1 3.826-5.01a8.24 8.24 0 0 1 7.831-.197l.613-1.058a12 12 0 0 1 7.286-5.577c3.067-.82 6.34-.387 9.089 1.195"
+                                    clip-rule="evenodd"></path>
+                                <path fill="#9b51e0"
+                                    d="m66.334 45.189l1.931-.52zm-5.583-7.255l.998-1.733zm5.837 12.259l-1.974-.32a2 2 0 0 0 1.131 2.133zm2.669 1.862l-1.413 1.416zm0 13.21l-1.413-1.417zm-6.61 2.734v2zm-2.038 0v-2q-.077 0-.154.006zM35.407 68l.057-2h-.057zm-2.054 0v2zm-6.609-2.735l1.413-1.416zm0-13.21l-1.412-1.415zm5.185-2.624l.305 1.976a2 2 0 0 0 1.672-1.672zm.177-.85l1.933.51zm3.826-5.01l-.998-1.733zm6.264-.8l.526-1.93zm1.568.603l-.902 1.785a2 2 0 0 0 2.632-.783zm.612-1.058l-1.73-1.002zm7.286-5.577l-.517-1.932zm16.604 7.93a13.96 13.96 0 0 0-6.517-8.468l-1.996 3.467a9.96 9.96 0 0 1 4.65 6.04zm.296 5.844a13.9 13.9 0 0 0-.296-5.843l-3.864 1.038a9.9 9.9 0 0 1 .212 4.164zm2.107.126a11.4 11.4 0 0 0-3.238-2.26l-1.686 3.627c.773.36 1.485.853 2.1 1.465zM74 58.659c0-3.009-1.203-5.897-3.332-8.02l-2.825 2.832A7.34 7.34 0 0 1 70 58.66zm-3.332 8.022A11.34 11.34 0 0 0 74 58.66h-4a7.34 7.34 0 0 1-2.157 5.188zm-8.021 3.318c3.007 0 5.894-1.197 8.02-3.318l-2.824-2.833A7.37 7.37 0 0 1 62.648 66zm-2.039 0h2.039v-4h-2.039zm-.154-3.994q.065-.005.132-.005v4q.089 0 .177-.007zm.132-.005h-25.17v4h25.17zm-25.171 0h.048l-.113 4h.065zm-2.063 4h2.054v-4h-2.054zm-8.02-3.318A11.37 11.37 0 0 0 33.352 70v-4a7.37 7.37 0 0 1-5.196-2.15zM22 58.66a11.33 11.33 0 0 0 3.331 8.02l2.825-2.832A7.34 7.34 0 0 1 26 58.661zm3.331-8.021A11.34 11.34 0 0 0 22 58.66h4c0-1.943.778-3.813 2.157-5.188zm6.291-3.186a11.38 11.38 0 0 0-6.29 3.186l2.824 2.832a7.37 7.37 0 0 1 4.077-2.065zm-1.451.617q-.139.525-.22 1.056l3.954.608q.05-.324.133-.644zm4.762-6.233a10.2 10.2 0 0 0-4.762 6.233l3.867 1.02a6.2 6.2 0 0 1 2.891-3.786zm7.788-.996a10.24 10.24 0 0 0-7.788.996l1.996 3.467a6.24 6.24 0 0 1 4.741-.604zm1.943.746a10.3 10.3 0 0 0-1.943-.746l-1.051 3.86q.621.17 1.19.457zm-2.02-.274l-.612 1.057l3.461 2.005l.613-1.058zm8.5-6.507a14 14 0 0 0-8.5 6.507l3.462 2.004a10 10 0 0 1 6.071-4.646zM61.748 36.2a14.02 14.02 0 0 0-10.604-1.394l1.033 3.864a10.02 10.02 0 0 1 7.575.997z">
+                                </path>
+                            </g>
+                        </svg>
+                    </button>
+                </div>
+                <div id="join-div">
+                    <a href="#" id="join-btn" class="btn">JOIN NOW</a>
+                </div>
             </div>
         </nav>
     </header>

diff --git a/style.css b/style.css
@@ -3,6 +3,7 @@
 * {
     margin: 0;
     padding: 0;
+    box-sizing: border-box;
     font-family: 'Bebas Neue', sans-serif;
 }
 
@@ -37,6 +38,16 @@
     text-decoration: none;
 }
 
+.toggle {
+    background-color: transparent;
+    border: 0;
+    cursor: pointer;
+}
+
+#join-div {
+    width: 150px ;
+    margin-right: 30px;
+}
 
 #nav-icons ul {
     display: flex;
@@ -44,7 +55,7 @@
 }
 
 .active {
-    background:linear-gradient(135deg,#efa937,#b34806,#FF7A00);
+    background: linear-gradient(135deg, #efa937, #b34806, #FF7A00);
 }
 
 #banner-section {
@@ -52,4 +63,40 @@
     width: 100%;
     background-image: url(banner.png);
     background-color: blue;
+}
+
+#header-btn {
+    display: flex;
+    gap: 30px;
+    position: relative;
+    top: 400px;
+    left: 565px;
+}
+
+.btn {
+    height: 40px;
+    width: 170px;
+    border-radius: 10px;
+    font-weight: 500;
+    font-size: 16px;
+    color: white;
+    letter-spacing: 1px;
+    cursor: pointer;
+}
+
+.btn-1 {
+    border: 0;
+    background-color: #d74f00;
+}
+
+#btn-2 {
+    border: 2px solid transparent;
+    background-color: black;
+
+    background-image:
+        linear-gradient(#000, #000),
+        linear-gradient(135deg, #d74f00, #67E8F9);
+
+    background-origin: border-box;
+    background-clip: padding-box, border-box;
 }
